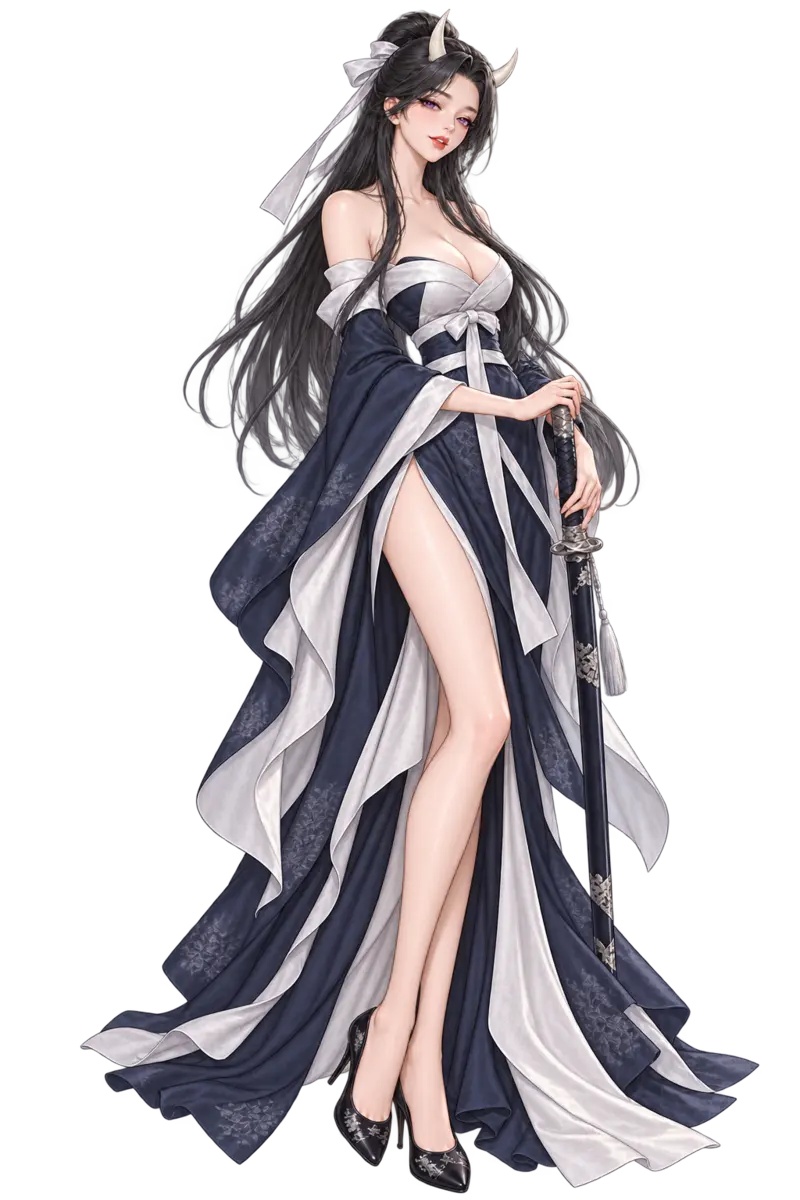
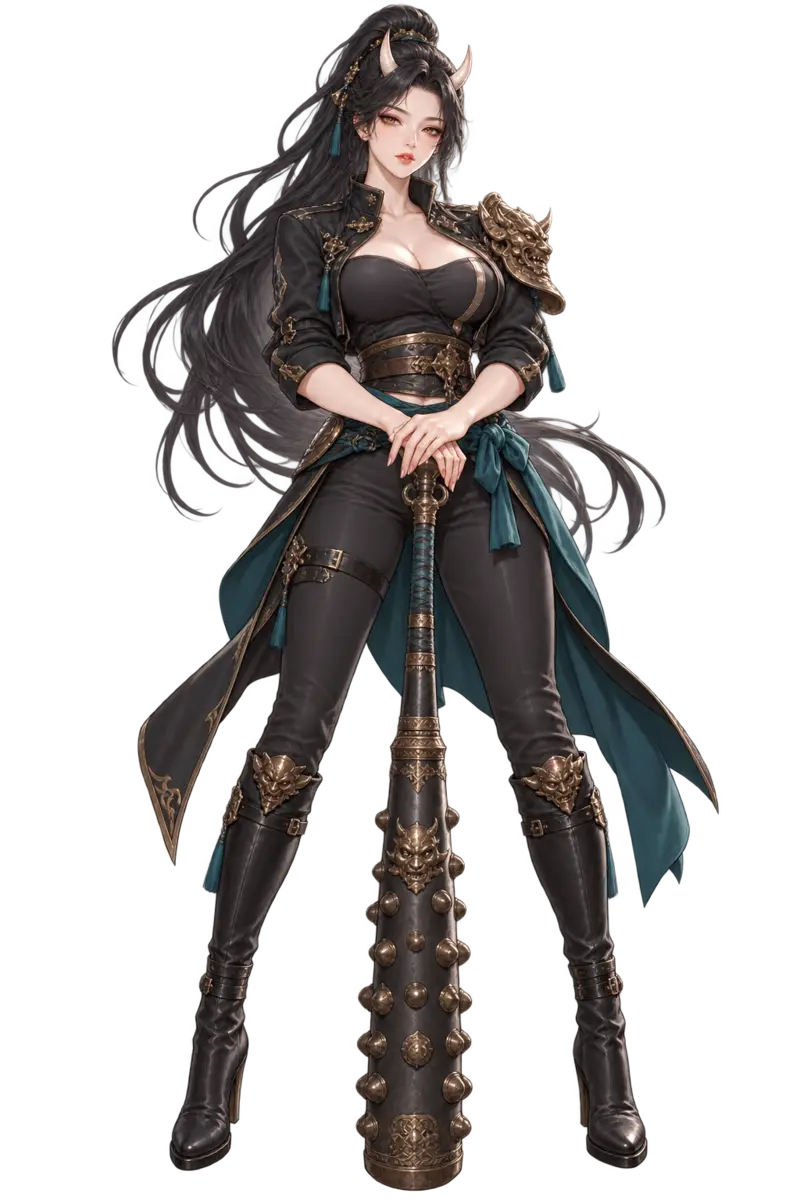
sample: 니케·우마무스메를 참고한 식객 디자인 기준과 세 명 다시 그리기
- docs/CHARACTER_GUIDE.md: 출신이 옷을 정하고 자세가 성격을 말하는 디자인 기준
- 백설(돌아보며 놀리기)·무영(무관 재킷, 방망이 세우고 버티기)·소담(종 모양 치마, 장부 보며 걸어오기)
- 공통 체형을 큰 가슴의 글래머로, 옷과 자세는 식객마다 다르게

Claude-Session: https://claude.ai/code/session_01AG3ixGBdGKPAAzXvjh6L4F

diff --git a/src/data/art.ts b/src/data/art.ts
@@ -8,15 +8,15 @@ const STYLE =
   'Beautiful Korean mobile game illustration in a polished modern webtoon style: clean elegant lineart, soft painterly cel shading, refined harmonious palette. ' +
   'Simple readable designs with minimal ornament (no gold filigree, no layered jewelry, no busy embroidery, no floating petals, no sparkles). Joseon-inspired fantasy. No text, no letters, no watermark, no frame.';
 
-// 체형은 한국 여자 아이돌을 기준으로 한다(사용자 지정).
+// 디자인 기준은 docs/CHARACTER_GUIDE.md. 체형은 공통, 옷과 자세는 식객마다 다르게(subject에 적는다).
 const HEROINE =
-  'The character is clearly an adult woman in her mid-to-late twenties, beautiful, elegant and alluring, with a soft charming face, large expressive eyes and glossy lips. ' +
-  'Body type like a typical adult Korean pop idol: slender and graceful, small face, narrow shoulders, very slim waist, slim hips, long straight slender legs, slim toned arms, a modest natural bust, natural proportions about seven and a half heads tall. ' +
-  'She wears a simplified elegant fusion hanbok of soft flowing fabric in her own two or three colors, with bare shoulders and a high side slit showing her leg. ' +
-  'Tasteful and non-explicit: no nudity, no underwear visible.';
+  'The character is clearly an adult woman in her late twenties, very beautiful and glamorous, with a small pretty face, large expressive eyes and glossy lips, ' +
+  'a glamorous hourglass figure with a large full bust, a very slim waist, curvy hips and long slender legs. ' +
+  'Her outfit and pose follow the subject description and express her personality. ' +
+  'Alluring but tasteful and non-explicit: no nudity, no underwear visible.';
 
 const FRAME = {
-  full: `${HEROINE} Full body standing pose facing slightly to the side, confident and charming. Isolated on a fully transparent background (PNG with alpha), no scenery, no floor, no shadow.`,
+  full: `${HEROINE} Full body, her signature pose. Isolated on a fully transparent background (PNG with alpha), no scenery, no floor, no shadow.`,
   card: `${HEROINE} Three-quarter body shot, dynamic pose, with a scenic background that suits her story.`,
   cg: `${HEROINE} Wide romantic story illustration (event CG) of her alone, seen from the point of view of the viewer who is with her (the viewer is not drawn). Warm emotional lighting and a detailed background.`,
   bg: 'Background art with no people. Tall vertical composition for a phone screen, the lower third fairly open.',

diff --git a/docs/CHARACTER_GUIDE.md b/docs/CHARACTER_GUIDE.md
@@ -1,0 +1,34 @@
+# 식객 디자인 기준
+
+니케(승리의 여신: 니케)와 우마무스메를 참고해 정한 기준이다. 새 식객을 그리거나 고칠 때 이 문서를 먼저 본다.
+
+## 참고한 점
+
+**니케**
+- 디자인 책임자(김형태)는 새 캐릭터의 첫째 조건으로 "이야기에 맞고 성격이 드러나는 디자인"을 꼽았고, 매력은 그다음이라고 했다.
+- 글래머 체형이 기본이지만 옷의 종류가 캐릭터마다 완전히 다르다(제복, 코트, 메이드복, 정장 등). 같은 옷을 색만 바꿔 입히지 않는다.
+- 서 있는 그림의 자세가 성격을 말한다. 무뚝뚝한 캐릭터는 반듯하게, 장난스러운 캐릭터는 윙크나 손짓을 한다.
+- 무기나 소품이 역할을 바로 알려 준다.
+
+**우마무스메**
+- 승부복은 모델이 된 실제 경주마의 기수복 색과 일화에서 나온다. 출신이 디자인을 정한다.
+- 체구도 출신을 따른다. 작은 말이 모델이면 캐릭터도 작다.
+- 머리 모양과 귀 장식만으로도 누구인지 알 수 있다.
+
+## 우리 규칙
+
+1. **출신이 옷을 정한다.** 설화 속 정체(구미호, 도깨비, 우렁각시…)와 하는 일(무관, 살림꾼…)에서 옷의 종류를 고른다. 모두에게 어깨 드러낸 긴 트임 한복을 입히지 않는다.
+2. **자세가 성격을 말한다.** 식객마다 대표 자세를 하나씩 정하고 겹치지 않게 한다.
+3. **검은 실루엣 시험.** 까맣게 칠해도 누구인지 알아볼 수 있어야 한다. 머리 모양, 옷 윤곽, 소품 셋 중 둘은 남과 달라야 한다.
+4. **대표 색 2~3개.** 다른 식객과 주된 색이 겹치지 않게 한다.
+5. **체형.** 모두 성인 여성이고 작은 얼굴, 큰 가슴, 가는 허리, 긴 다리의 글래머 체형이다. 키와 골격(늘씬함, 탄탄함, 부드러움)은 성격에 맞게 다르게 한다.
+6. **꾸밈은 적게.** 금장식, 겹겹 장신구, 꽃잎, 반짝이 효과는 넣지 않는다. 눈길은 얼굴, 몸선, 소품에 모은다.
+7. **노출 수위.** 매력적이되 노골적이지 않게 한다. 맨살이 드러나도 속옷이나 맨몸은 보이지 않는다.
+
+## 1부 식객 디자인표
+
+| 식객 | 출신·역할 | 옷 | 대표 자세 | 색 |
+| --- | --- | --- | --- | --- |
+| 백설 | 구미호, 매력 | 어깨 드러낸 긴 한복, 진홍 허리끈 | 등을 반쯤 돌려 어깨 너머로 돌아보며 부채로 입가를 가림 | 흰색 · 진홍 |
+| 무영 | 도깨비, 무관 | 무관 겉옷을 줄인 짧은 재킷, 어깨 보호대, 바지와 긴 장화 | 정면으로 다리를 벌리고 서서 세운 방망이 위에 두 손을 얹음 | 검정 · 청록 · 청동 |
+| 소담 | 우렁각시, 살림꾼 | 짧은 저고리와 종 모양으로 퍼지는 긴 치마 | 걸어오다 장부를 펴 들고 붓끝을 입술에 댐 | 연보라 · 상아 · 진주 |
